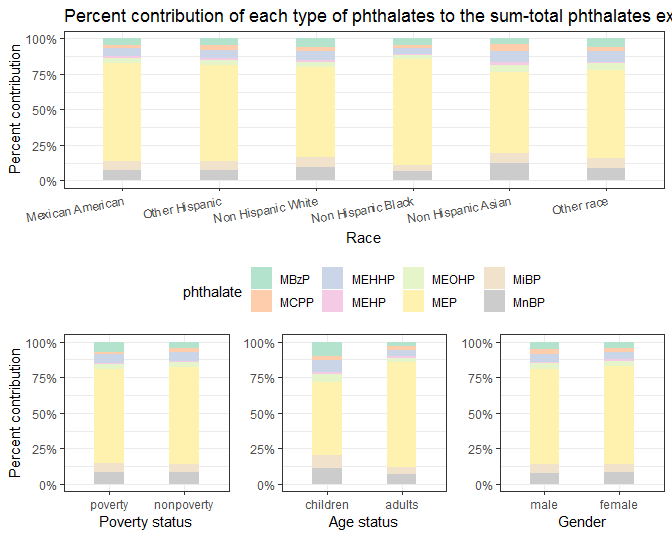
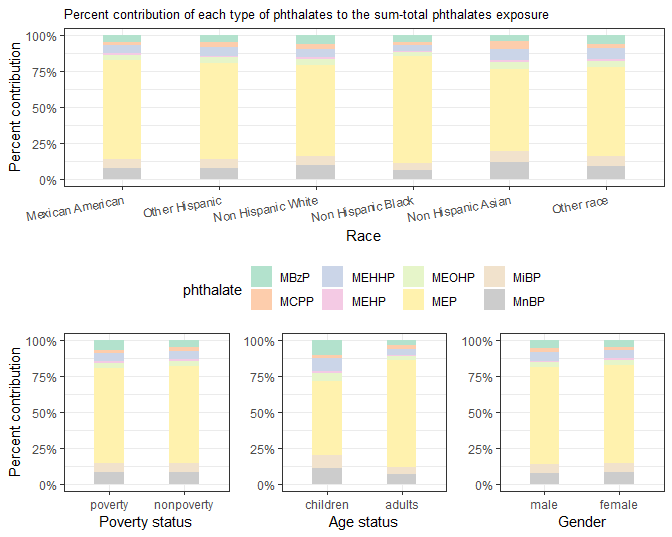
making plot title smaller

diff --git a/report.md b/report.md
@@ -13,23 +13,33 @@ Motivation
 Related works
 -------------
 
--   Papers:
+-   papers:
 
-1.  [Phthalates and Their Alternatives: Health and Environmental Concerns](http://ec.europa.eu/environment/aarhus/pdf/35/Annex_11_report_from_Lowell_Center.pdf)
-2.  [Gender- and Age-Specific Relationships Between Phthalate Exposures and Obesity in Shanghai Adults](https://doi.org/10.1007/s00244-017-0441-6)
-3.  [Developmental Effects of Endocrine-disrupting Chemicals in Wildlife and Humans](https://doi.org/10.1289/ehp.93101378)
-4.  [DI-2-Ethylhexyl Phthalate and Endocrine Disruption: A Review](https://doi.org/10.2174/1568008043340017)
-5.  [Phthalates Impact Human Health: Epidemiological Evidences and Plausible Mechanism of Action](https://doi.org/10.1016/j.jhazmat.2017.06.036)
-6.  [Phthalate Exposure and Childhood Obesity](https://www.ncbi.nlm.nih.gov/pmc/articles/PMC4114051/)
-7.  [Endocrine Disruptors and Obesity](https://www.ncbi.nlm.nih.gov/pmc/articles/PMC5359373/)
+1.<http://ec.europa.eu/environment/aarhus/pdf/35/Annex_11_report_from_Lowell_Center.pdf>
 
--   Websites:
+2.<https://doi.org/10.1007/s00244-017-0441-6>
 
-1.  [Plasticisers Information Center](https://www.plasticisers.org)
-2.  [Global Health Observatory (GHO) Data](https://www.who.int/gho/ncd/risk_factors/overweight/en/)
-3.  [Definition; epidemiology; and etiology of obesity in children and adolescents](https://www.uptodate.com/contents/definition-epidemiology-and-etiology-of-obesity-in-children-and-adolescents)
-4.  [Bisphenol A (BPA): Use in Food Contact Application](https://www.fda.gov/newsevents/publichealthfocus/ucm064437.htm)
-5.  [Endocrine Disruptors](https://www.niehs.nih.gov/health/topics/agents/endocrine/index.cfm)
+3.<https://doi.org/10.1289/ehp.93101378>
+
+4.<https://doi.org/10.2174/1568008043340017>
+
+5.<https://doi.org/10.1016/j.jhazmat.2017.06.036>
+
+6.<https://www.ncbi.nlm.nih.gov/pmc/articles/PMC4114051/>
+
+7.<https://www.ncbi.nlm.nih.gov/pmc/articles/PMC5359373/>
+
+-   websites:
+
+1.<https://www.plasticisers.org>
+
+2.<https://www.who.int/gho/ncd/risk_factors/overweight/en/>
+
+3.<https://www.uptodate.com/contents/definition-epidemiology-and-etiology-of-obesity-in-children-and-adolescents>
+
+4.<https://www.fda.gov/newsevents/publichealthfocus/ucm064437.htm>
+
+5.<https://www.niehs.nih.gov/health/topics/agents/endocrine/index.cfm>
 
 Initial questions:
 ------------------
@@ -252,7 +262,7 @@ bar_1 =
     title = "Percent contribution of each type of phthalates to the sum-total phthalates exposure",
     x = "Race",
     y = "Percent contribution"
-  )
+  ) + theme(plot.title = element_text(size = 10))
 
 bar_2 = 
   phthte_demo_bmx %>% 
